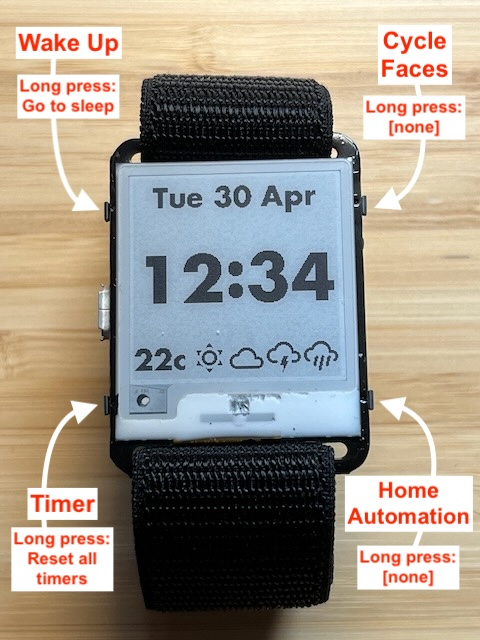
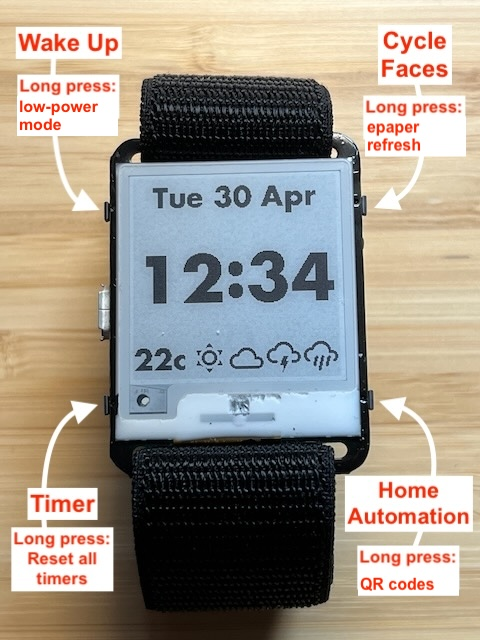
improved documentation

Changed region(s): [[0.0312, 0.1562, 0.25, 0.2188], [0.75, 0.1875, 0.9688, 0.25], [0.75, 0.875, 0.9688, 0.9375]]

diff --git a/README.md b/README.md
@@ -1,22 +1,14 @@
 # ESPHome-for-Watchy
 
-ESPHome YAML: [./watchy.yaml](./watchy.yaml)
+Single-file source code here: [./watchy.yaml](./watchy.yaml)
 
-Watchy is an open-hardware, ESP32 wrist watch with e-paper display designed by SQFMI.
+[Watchy](https://watchy.sqfmi.com/) is an [open-hardware](https://watchy.sqfmi.com/docs/hardware), ESP32 wrist watch with e-paper display designed by SQFMI.
 
-https://watchy.sqfmi.com/
-
-https://watchy.sqfmi.com/docs/hardware
-
-This project is a functional ESPHome configuration file for the Watchy hardware.
-
-https://esphome.io/
-
-It is a complete, self-contained, drop-in replacement for the original firmware.
+This project is a complete working firmware, built upon [ESPHome](https://esphome.io/), with [single-file source-code](./watchy.yaml), full v3 hardware support, weather forecast, multiple faces, [beautiful pixel-art MDI icons](https://pictogrammers.com/library/mdi/), stop-watch timers, low-power-mode, firmware updatable over wifi and easy Home Assistant customisation. It is a complete, self-contained, drop-in replacement for the original Watchy firmware.
 
 ## Faces
 
-Included faces:
+Included faces (cycle through them using the top-right button):
 
 <div>
 <img src="doc/faces/5.jpeg" style="width: 240px; max-width: 95vw; max-height: 95vh" />
@@ -25,9 +17,24 @@ Included faces:
 <img src="doc/faces/2.jpeg" style="width: 240px; max-width: 95vw; max-height: 95vh" />
 <img src="doc/faces/8.jpeg" style="width: 240px; max-width: 95vw; max-height: 95vh" />
 <img src="doc/faces/3.jpeg" style="width: 240px; max-width: 95vw; max-height: 95vh" />
-<img src="doc/faces/4.jpeg" style="width: 240px; max-width: 95vw; max-height: 95vh" />
-<img src="doc/faces/6.jpeg" style="width: 240px; max-width: 95vw; max-height: 95vh" />
+<!-- <img src="doc/faces/4.jpeg" style="width: 240px; max-width: 95vw; max-height: 95vh" /> -->
+<!-- <img src="doc/faces/6.jpeg" style="width: 240px; max-width: 95vw; max-height: 95vh" /> -->
 </div>
+
+## Install / Flash
+
+1. [Install ESPHome compiler](https://esphome.io/guides/getting_started_command_line) and optional [VSCode extension](https://marketplace.visualstudio.com/items?itemName=ESPHome.esphome-vscode)
+1. Sign up at https://openweathermap.org/ to get an API key
+1. `cp config-example.yaml config.yaml`
+1. Edit your `config.yaml` file
+1. Connect your Watchy to USB and run `esphome run watchy.yaml`
+1. Thats it!
+
+## About ESPHome
+
+[ESPHome](https://esphome.io/): "is a system to control your microcontrollers by simple yet powerful configuration files and control them remotely through Home Automation systems."
+
+As this project is based on ESPHome, there is excellent, existing documentation and community support for all the submodules and their many customisation options. For example: [wifi with multiple networks](https://esphome.io/components/wifi.html#connecting-to-multiple-networks), [display graphics and rendering](https://esphome.io/components/display/), [ePaper drivers](https://esphome.io/components/display/waveshare_epaper.html), [GPIO](https://esphome.io/components/binary_sensor/gpio), [button actions](https://esphome.io/components/binary_sensor/), [NTP time-sync](https://esphome.io/components/time/sntp.html), [time events](https://esphome.io/components/time/#on-time-trigger) and [HTTP API calls](https://esphome.io/components/http_request.html), [ESP32 deep-sleep](https://esphome.io/components/deep_sleep.html), [wireless firmware updates (OTA)](https://esphome.io/components/ota/), [captive portal](https://esphome.io/components/captive_portal.html), [battery voltage ADC](https://esphome.io/components/sensor/adc.html) and many more.
 
 ## The Watch
 
@@ -35,7 +42,7 @@ Included faces:
 
 - Watchy v3: [./watchy.yaml](./watchy.yaml)
 
-Update: New (2024) v3 module arrived via [Mouser Electronics](https://au.mouser.com/ProductDetail/SQFMI/SQFMI-WATCHY-10?qs=DRkmTr78QARN9VSJRzqRxw%3D%3D). It has hardware changes including ESP32-S3, RTC and rearranged pins.
+Update: New (2024) v3 module arrived via [Mouser Electronics](https://au.mouser.com/ProductDetail/SQFMI/SQFMI-WATCHY-10?qs=DRkmTr78QARN9VSJRzqRxw%3D%3D). It has hardware changes including ESP32-S3, RTC and [rearranged pins](https://github.com/sqfmi/Watchy/compare/667d86737dd3dcedf67d83cf69553b28f4e1f38b..master).
 
 <div>
 <img src="doc/mods/wrist-side-profile.jpeg" style="width: 240px; max-width: 95vw; max-height: 95vh" />
@@ -50,21 +57,16 @@ Update: New (2024) v3 module arrived via [Mouser Electronics](https://au.mouser.
 <img src="doc/v3/06.jpeg" style="width: 240px; max-width: 95vw; max-height: 95vh" />
 </div>
 
-TODO:
-
-- ESP32-S3 on-board RTC - It works, but how!?
-- Step counter (BMA)
-
-https://github.com/sqfmi/Watchy/compare/667d86737dd3dcedf67d83cf69553b28f4e1f38b..master
-
 IDEADS:
 
 - Clicker-counter mode
 - Auto-sleep could be delayed longer if wifi is already disabled
+- Preset count-down timers
+- Enable/disable hourly alarms on the watch
 
 ### Watchy hardware v2
 
-- Watchy v2: [./v2-watchy.yaml](./v2-watchy.yaml)
+A backwards compatible version is also available older v2 hardward: [./v2-watchy.yaml](./v2-watchy.yaml)
 
 ## Design Approach
 
@@ -128,14 +130,6 @@ The watch shows a weather forecast over the upcoming 12 hours. This is a simple,
 <img src="doc/weather02.jpeg" style="width: 240px; max-width: 95vw; max-height: 95vh" />
 </div>
 
-### Home Assistant
-
-TODO
-
-<div>
-<img src="doc/19.jpeg" style="width: 240px; max-width: 95vw; max-height: 95vh" />
-</div>
-
 ### Timers Operation
 
 Press the left-bottom button to show the timers page:
@@ -162,6 +156,23 @@ When the page is full, a button press will discard the oldest timer and start a 
 <img src="doc/18.jpeg" style="width: 240px; max-width: 95vw; max-height: 95vh" />
 </div>
 
+### Home Assistant
+
+Create your own customisations for Home Assistant integration. See [documentation](https://esphome.io/components/api.html)
+
+<div>
+<img src="doc/19.jpeg" style="width: 240px; max-width: 95vw; max-height: 95vh" />
+</div>
+
+### Weather Faces
+
+These are useful for wall-mounting older/spare Watchy modules:
+
+<div>
+<img src="doc/faces/3.jpeg" style="width: 240px; max-width: 95vw; max-height: 95vh" />
+<img src="doc/faces/4.jpeg" style="width: 240px; max-width: 95vw; max-height: 95vh" />
+</div>
+
 ### QR-Code Contact Card / ID Badge
 
 You know... just in case you accidentally find yourself at a meet-up or conference without a phone, tablet or business card and can't remember your own email or website addresses, don't panic, you have your watch!
@@ -176,10 +187,7 @@ vCard, Website and RSS URL can be set in `secrets.yaml`.
 <img src="doc/qr-rss.jpeg" title="RSS" style="width: 240px; max-width: 95vw; max-height: 95vh" />
 </div>
 
-## Install / Flash
-
-1. `cp secrets.example.yaml secrets.yaml`
-1. Edit your secrets.yaml
+## Installation Notes
 
 ### Fonts
 
@@ -193,7 +201,15 @@ https://github.com/Templarian/MaterialDesign-Webfont/tree/master/fonts
 
 Save the files to `fonts` directory.
 
-### Install ESPHome on Mac OSX
+### Material Design Icons
+
+1. Find new icons over at [Pictogrammers Material Design Icons](https://pictogrammers.com/library/mdi/)
+1. Click on the icon and copy the name like this `mdiAbacus` from the code like this `import { mdiAbacus } from '@mdi/js';`
+1. Paste the new icon name under the `fonts:` section of `watchy.yaml` with a leading `$`, eg `$mdiAbacus`
+1. Then run `node generate-mdi.js` to make the icon available in CPP and YAML files
+1. Or, alternatively, manually add the new icon to `mdi.yaml` and `mdi.h`
+
+### Install ESPHome compiler tool on Mac OSX
 
 https://esphome.io/guides/installing_esphome.html#mac
 
@@ -207,7 +223,7 @@ https://raw.githubusercontent.com/Homebrew/homebrew-core/fc831c5d76dc2eb6dbe2265
     brew install ./pillow.rb
     brew pin pillow
 
-### Enter Bootloader Mode (v3 only)
+### Enter Watchy Bootloader Mode (v3 only)
 
 https://watchy.sqfmi.com/docs/getting-started#uploading-new-watchfacesfirmware
 
@@ -217,16 +233,18 @@ To upload new firmware/watchfaces to Watchy, you will need to enter **bootloader
 1. Press and hold the top 2 buttons for more than 4 seconds, then release the **Left button first**, before releasing the Up button
 1. You should now see an ESP32S3 device enumerate a serial port i.e. COM, cu.\*
 
-### Flash
+### Install Flash with a unique ID
 
-    esphome -s ID 0 run watchy.yaml
+1. `cp config-example.yaml config.yaml`
+1. Edit your secrets.yaml
+   1 `esphome -s ID 1 run watchy.yaml`
 
-### Reset (v3 only)
+### Reset Watchy (v3 only)
 
 1. Press and hold the top 2 buttons for more than 4 seconds, then release the **Right button first**, before releasing the Back button
 1. Watchy should now reset, wait a few seconds for it to boot up and refresh the screen
 
-## Mods
+## Watchy Hardware Mods
 
 _Disclaimer: This following is not advice._
 
@@ -246,3 +264,22 @@ I discarded the huge, clumsy watch case that comes in the box! Threading a Garmi
 <img src="doc/mods/band-side-view.jpeg" style="width: 240px; max-width: 95vw; max-height: 95vh" />
 <img src="doc/mods/wrist-side-profile.jpeg" style="width: 240px; max-width: 95vw; max-height: 95vh" />
 </div>
+
+## Patched ESPHome ePaper Component
+
+See https://esphome.io/components/external_components.html
+
+This project used a slightly modified module forked from the main ESPHome project.
+
+The minor customisations for Watchy are:
+
+- Prevent a full ePaper refresh on ESP32 boot which is not the desired behaviour for a low-power watch.
+  https://github.com/multipolygon/esphome/commit/6407a74ff9855d515cb16fef67f90c748f9800ea
+- Add a pubic `do_full_update()` method to trigger the full-refresh only at certain times of day - a full update clears away ghost pixels.
+  https://github.com/multipolygon/esphome/commit/ecf116058cc4b20007126f9099f4b07f4d46b9dd
+
+## Captive Portal
+
+https://esphome.io/components/captive_portal.html
+
+Captive Portal could be enabled to generate a reusable firmware binary and set wifi name and password by connecting directly to the device.
